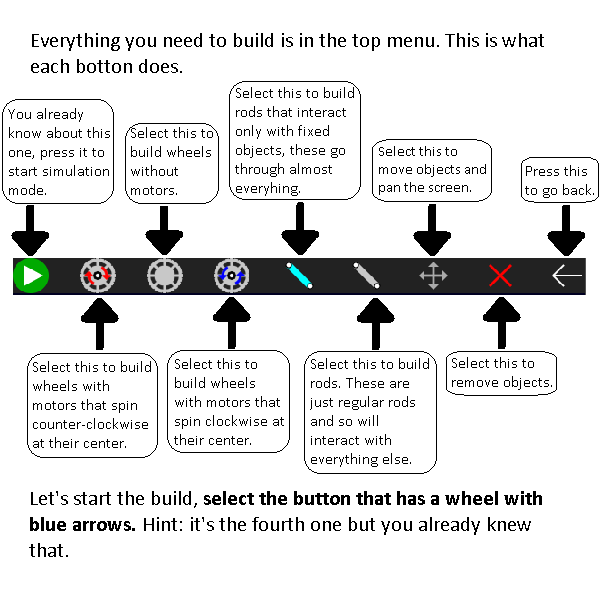
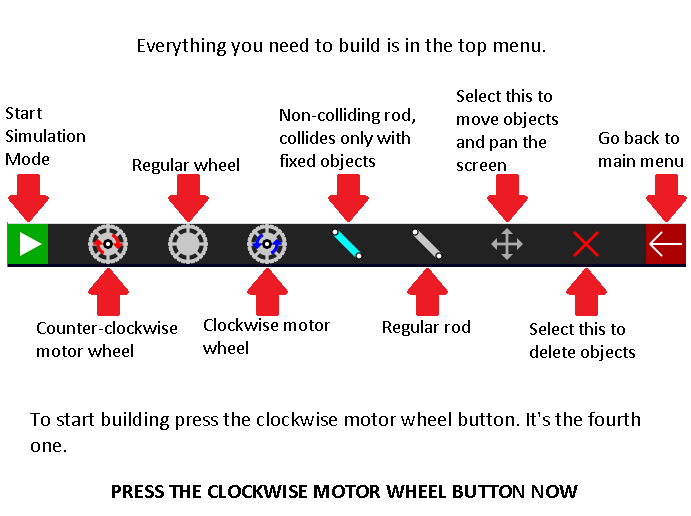
added loading screen and minorr changes

Changed region(s): [[0.0, 0.062, 1.0, 0.9302], [0.15, 0.9302, 0.84, 0.9922], [0.57, 0.3101, 0.6, 0.3411]]

diff --git a/docs/index.html b/docs/index.html
@@ -78,12 +78,12 @@
 				left: 50%;
 				top: 50%;
 				transform: translateX(-50%) translateY(-50%);
-				//max-height: 90vh;
+				max-height: calc(100% - 120px);
 				width: auto;
 				display: none;
 				overflow: auto;
 				padding: 30px;
-				border-radius: 5px;
+				border-radius: 20px;
 				color: #fff;
 			}
 			.popupHeader{
@@ -102,6 +102,9 @@
 			.unlockedLevelBtn:hover{
 				background-color: #08f;
 			}
+			.startSimulationBtn, .stopSimulationBtn, .backBtn {
+				border-radius: 0px;
+			}
 			.startSimulationBtn{
 				background-color: #0a0;
 			}
@@ -114,6 +117,12 @@
 			.stopSimulationBtn:hover{
 				background-color: #f00;
 			}
+			.backBtn {
+				background-color: #a00;
+			}
+			.backBtn:hover {
+				background-color: #f00;
+			}
 			.closeBtn{
 				height: 30px;
 				position: absolute;
@@ -124,31 +133,27 @@
 			.closeBtn:hover{
 				background-color: #b00;
 			}
+			#tutorialUi{
+				top: 60px;
+				transform: translateX(-50%) translateY(0%);
+			}
+			#tutorialImgDiv {
+				max-height: calc(100vh - 240px);
+				overflow: auto;
+			}
 			#tutorialShowBtn {
 				display: none;
 			}
 			#tutorialShrinkBtn, #tutorialShowBtn {
 				background-color: #000;
-				width: 70px;
+				height: 40px;
 				border-radius: 10px;
-				position:absolute;
-				right: 10px;
-				bottom: 10px;
+				float: right;
+				margin-top: 20px;
 			}
 			#tutorialShrinkBtn:hover, #tutorialShowBtn:hover {
 				background-color: #222;
 			}
-			#tutorialImg {
-				border-radius: 20px;
-				margin-bottom: 40px;
-			}
-
-			#tutorialUi{
-				top: 60px;
-				max-height: calc(100% - 120px);
-				transform: translateX(-50%) translateY(0%);
-			}
-
 			#reuseableHtml{
 				display: none;
 			}
@@ -203,9 +208,22 @@
 				top: 50%;
 				left: 50%;
 			}
+			#loadingScreen{
+				background-color: #000;
+				color: white;
+				font-size: 40px;
+				position: absolute;
+				z-index: 1;
+				line-height: 100vh;
+				box-sizing: border-box;
+				height: 100%;
+				width: 100%;
+				text-align: center;
+			}
 		</style>
 	</head>
 	<body>
+		<div id="loadingScreen">Loading...</div>
 		<canvas id="game"></canvas>
 		<div id="sandboxToolbar" class="toolbar"></div>
 		<div id="assemblySceneBtnsDiv" class="toolbar"></div>
@@ -256,7 +274,9 @@
 
 		<div id="tutorialUi" class="popup">
 			<p class="popupHeader">Tutorial</p>
-			<img id="tutorialImg">
+			<div id="tutorialImgDiv">
+				<img id="tutorialImg">
+			</div>
 			<svg id="tutorialShrinkBtn" preserveAspectRatio="xMinYMin meet" viewBox="0 0 100 50" xmlns="http://www.w3.org/2000/svg">
 				<text dominant-baseline="middle" text-anchor="middle" x="50%" y="50%" font-family="sans-serif" font-size="30" fill="white">Hide</text>
 			</svg>
@@ -268,7 +288,7 @@
 
 		<div id="saveLevelUI" class="popup">
 			<p class="popupHeader">Save Level</p>
-			File name: <input id="saveText" draggable="false" type="text"/>
+			File name: <input id="saveText" type="text"/>
 			<button id="saveBtn">Save</button><br>
 			<p id="saveMessageP"></p>
 			<a id="downloadlink" download style="display: none">Download</a><br>

diff --git a/docs/helper.js b/docs/helper.js
@@ -104,13 +104,13 @@ class GameObject {
 	}
 
 	isLegalPosition(){
+		if(!sandboxMode && !pw.isWithinAABB(assemblyField.ref, this.ref)) return false;
 		let group = pw.getGroup(this.ref);
 		for(const o of gameObjects){
-			if(o != this && GROUP_CONTACTS[group].includes(pw.getGroup(o.ref)) && !this.connectedObjects.includes(o) && pw.isPenetrating(this.ref, o.ref)){
+			if(o != this && !this.connectedObjects.includes(o) && GROUP_CONTACTS[group].includes(pw.getGroup(o.ref)) && pw.isPenetrating(this.ref, o.ref)){
 				return false;
 			}
 		}
-		if(!sandboxMode && !pw.isWithinAABB(assemblyField.ref, this.ref)) return false;
 		return true;
 	}
 }
@@ -187,14 +187,6 @@ class Circle extends GameObject{
 
 class Obround extends GameObject {
 	constructor(def){
-	/*
-		let dx = def.vertices[0][0] - def.vertices[1][0];
-		let dy = def.vertices[0][1] - def.vertices[1][1];
-		let len = Math.sqrt(dx * dx + dy * dy);
-		if(len < MIN_ROD_LENGTH){
-			def.vertices[1][0] = MIN_ROD_LENGTH;
-		}
-		*/
 		super(def);
 		this.vertex0ConnectedObjectsEnd = 0;
 		if(def.userFloats[H_IS_JOINABLE]){
@@ -496,17 +488,16 @@ function getHandlesNear(x, y, objToIgnore){
 
 // scene management
 const sceneManager = {
-	history: [menuScene],
-	current: menuScene,
+	history: [],
+	current: null,
 	currentFloat: false,
 
 	push(scene){
 		this.unfloat();
-		this.current.suspend();
+		if(this.current) this.current.suspend();
 		this.history.push(scene);
 		this.current = scene;
 		this.current.start();
-		//console.error("push");
 	},
 
 	pop(){
@@ -521,7 +512,6 @@ const sceneManager = {
 		this.unfloat();
 		scene.start(arg);
 		this.currentFloat = scene;
-		//console.error("float");
 	},
 
 	unfloat(){
@@ -531,41 +521,9 @@ const sceneManager = {
 		}
 	}
 };
+document.getElementById("loadingScreen").style.display = "none";
+sceneManager.push(menuScene);
 window.onresize();
-menuScene.start();
-/*
-function sceneManager.push(newScene){
-	if(floatingScene){
-		sceneManager.pop();
-	}
-	newScene.backScene = currentScene;
-	currentScene.suspend();
-	currentScene = newScene;
-	currentScene.start();
-}
-function sceneManager.pop(){
-	if(floatingScene){
-		floatingScene.suspend();
-		floatingScene = false;
-		return;
-	}
-	currentScene.suspend();
-	currentScene = currentScene.backScene;
-	currentScene.start();
-}
-var floatingScene = false;
-function sceneManager.float(scene){
-	if(floatingScene){
-		sceneManager.pop();
-	}
-	floatingScene = scene;
-	scene.start();
-}
-*/
-
-//message: "The level your attempting to load is unplayable because it is missing key objects, it can only be loaded in sandbox mode."
-
-
 
 function create(def){
 	if(def.form == pw.CIRCLE_FORM) {
